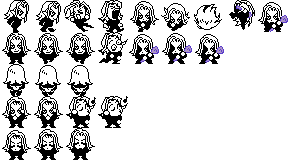
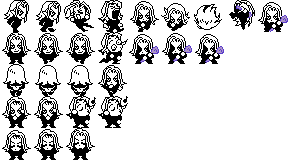
minxia roulette jumping

Changed region(s): [[0.3438, 0.4062, 0.4375, 0.5938]]

diff --git a/src/skills/magic/roulette.py b/src/skills/magic/roulette.py
@@ -1,7 +1,12 @@
 from math import pi, inf
+from random import choice
+import lib.vector as vector
+from lib.cell import downscale
 from skills.magic import MagicSkill
 from anims.pause import PauseAnim
+from anims.jump import JumpAnim
 from cores.mage import Mage
+from dungeon.actors.mageclone import MageClone
 from vfx.mageclone import MageCloneVfx
 
 class Roulette(MagicSkill):
@@ -25,17 +30,66 @@ class Roulette(MagicSkill):
     on_start and on_start(user.cell)
     user.core.anims.append(Mage.CastAnim())
     game.darken()
+
+    def jump(fx):
+      start_cell = user.cell
+      pause_anim.end()
+      game.anims.extend([
+        [JumpAnim(
+          target=user,
+          src=user.cell,
+          dest=vector.add(user.cell, (-1, -1)),
+          height=36,
+          duration=45,
+          on_end=lambda: (
+            setattr(user, "hidden", True),
+            game.vfx.append(MageCloneVfx(
+              cell=start_cell,
+              color=user.color(),
+              angle=fx.angle + 2 * pi * 1 / 5,
+              animated=False,
+            )),
+            game.anims.extend([
+              *[(lambda f: [
+                pause_anim := PauseAnim(
+                  duration=15,
+                  on_end=lambda: (
+                    clone_cell := choice([c for c in game.room.cells if game.stage.is_cell_empty(c)]),
+                    clone := (user if f is game.vfx[-1] else MageClone(aggro=2)),
+                    game.stage.spawn_elem_at(
+                      cell=clone_cell,
+                      elem=clone
+                    ) if clone is not user else (
+                      setattr(user, "hidden", False),
+                      user.core.anims.pop(),
+                    ),
+                    f in game.vfx and game.vfx.remove(f),
+                    anim_group := next((g for g in game.anims if pause_anim in g), None),
+                    anim_group.append(JumpAnim(
+                      target=clone,
+                      src=vector.add(downscale(f.pos, game.stage.tile_size), (0, -0.5)),
+                      dest=clone_cell,
+                      height=36,
+                      duration=45,
+                    )),
+                  )
+                )
+              ])(f) for f in game.vfx if type(f) is MageCloneVfx],
+              [PauseAnim(duration=30, on_end=lambda: (
+                game.undarken(),
+                on_end and on_end(),
+              ))]
+            ])
+          )
+        )],
+      ])
+
     game.vfx.extend([
-      MageCloneVfx(cell=user.cell, color=user.color(), angle=pi * 0),
-      MageCloneVfx(cell=user.cell, color=user.color(), angle=pi * 0.5),
-      MageCloneVfx(cell=user.cell, color=user.color(), angle=pi * 1),
-      MageCloneVfx(cell=user.cell, color=user.color(), angle=pi * 1.5),
+      MageCloneVfx(cell=user.cell, color=user.color(), angle=2 * pi * 0 / 4),
+      MageCloneVfx(cell=user.cell, color=user.color(), angle=2 * pi * 1 / 4),
+      MageCloneVfx(cell=user.cell, color=user.color(), angle=2 * pi * 2 / 4),
+      MageCloneVfx(cell=user.cell, color=user.color(), angle=2 * pi * 3 / 4, on_ready=jump),
     ])
-    game.anims.append([PauseAnim(duration=inf)])
-    #   [PauseAnim(duration=90, on_end=lambda: (
-    #     user.core.anims.pop(),
-    #     game.undarken(),
-    #     on_end and on_end(),
-    #   ))],
-    # ])
+
+    game.anims.append([pause_anim := PauseAnim(duration=inf)])
     return False

diff --git a/src/dungeon/actors/__init__.py b/src/dungeon/actors/__init__.py
@@ -120,6 +120,7 @@ class DungeonActor(DungeonElement):
     actor.visible_cells = []
     actor.on_defeat = None
     actor.flipped = False
+    actor.hidden = False
 
     actor.ai_mode = None
     actor.ai_target = None
@@ -476,8 +477,9 @@ class DungeonActor(DungeonElement):
     return actor.core.update()
 
   def view(actor, sprites, anims=[]):
-    if not sprites:
+    if not sprites or actor.hidden:
       return []
+
     if type(sprites) is Surface:
       sprites = [Sprite(image=sprites)]
     if type(sprites) is list:
@@ -570,7 +572,7 @@ class DungeonActor(DungeonElement):
       sprites += bubble_sprites
 
     # aggro icon
-    if actor.aggro in (1, 2) and actor.faction == "enemy" and not actor.ailment == "freeze" and not warpin_anim:
+    if actor.aggro == 1 and actor.faction == "enemy" and not actor.ailment == "freeze" and not warpin_anim:
       marker_image = assets.sprites["aggro_mark"]
       marker_image = replace_color(marker_image, BLACK, RED)
       marker_sprite = Sprite(

diff --git a/src/vfx/mageclone.py b/src/vfx/mageclone.py
@@ -24,10 +24,10 @@ class MageCloneVfx(Vfx):
   ROTATE_PERIOD = 75
 
   class SpreadAnim(TweenAnim): pass
-  class SpinAnim(Anim): pass
+  class PauseAnim(Anim): pass
   class AdjustAnim(TweenAnim): pass
 
-  def __init__(fx, cell, angle, *args, **kwargs):
+  def __init__(fx, cell, angle, animated=True, on_ready=None, *args, **kwargs):
     x, y = cell
     super().__init__(
       kind=None,
@@ -42,12 +42,15 @@ class MageCloneVfx(Vfx):
       [Mage.CastAnim()],
       [
         fx.SpreadAnim(duration=fx.SPREAD_DURATION),
-        fx.SpinAnim(duration=fx.SPIN_DURATION),
+        fx.PauseAnim(duration=fx.SPIN_DURATION),
         fx.AdjustAnim(
           duration=fx.ADJUST_DURATION,
           target=(fx.angle, fx.transpose_angle(fx.angle, item_count=5))
-        )
-      ]
+        ),
+        fx.PauseAnim(duration=fx.SPIN_DURATION, on_end=lambda: (
+          on_ready and on_ready(fx)
+        )),
+      ] if animated else []
     ]
 
   def update(fx, *_):

diff --git a/src/dungeon/actors/mageclone.py b/src/dungeon/actors/mageclone.py
@@ -1,0 +1,37 @@
+from dungeon.actors import DungeonActor
+from cores import Core, Stats
+from cores.mage import Mage
+import assets
+from lib.sprite import Sprite
+
+from anims.shake import ShakeAnim
+
+class MageClone(DungeonActor):
+
+  class ChargeAnim(ShakeAnim): pass
+
+  def __init__(mage, *args, **kwargs):
+    super().__init__(Core(
+      name="Minxia",
+      faction="enemy",
+      stats=Stats(
+        hp=1,
+        st=14,
+        ma=14,
+        dx=9,
+        ag=7,
+        lu=9,
+        en=10,
+      ),
+    ), *args, **kwargs)
+    mage.core.anims = [Mage.IdleDownAnim()]
+
+  def step(mage, game):
+    return None
+
+  def view(mage, anims):
+    mage_image = assets.sprites["mage_leap"]
+    return super().view([Sprite(
+      image=mage_image,
+      pos=(0, 0)
+    )], anims)

diff --git a/src/dungeon/actors/mage.py b/src/dungeon/actors/mage.py
@@ -112,7 +112,7 @@ class Mage(DungeonActor):
       if mage.hp < mage.hp_max / 2:
         mage.charge(skill=Congelatio, dest=enemy.cell)
       else:
-        mage.charge(skill=Roulette)
+        mage.charge(skill=Glacio)
       return game.comps.minilog.print((mage.token(), " is chanting."))
 
     has_allies = next((e for c in game.room.get_cells() for e in game.stage.get_elems_at(c) if (
@@ -123,7 +123,8 @@ class Mage(DungeonActor):
     )), None)
 
     if not has_allies:
-      return ("use_skill", Accerso)
+      mage.charge(skill=Roulette)
+      return game.comps.minilog.print((mage.token(), " is chanting."))
 
     delta = None
     if abs(dist_x) + abs(dist_y) == 1:

diff --git a/src/cores/mage.py b/src/cores/mage.py
@@ -56,6 +56,9 @@ class Mage(BipedCore):
     frames_duration = 10
     loop = True
 
+  class LeapAnim(FrameAnim):
+    frames = [assets.sprites["mage_leap"]]
+
   def __init__(mage, name=MAGE_NAME, faction="player", hp=MAGE_HP, *args, **kwargs):
     super().__init__(
       name=name,
